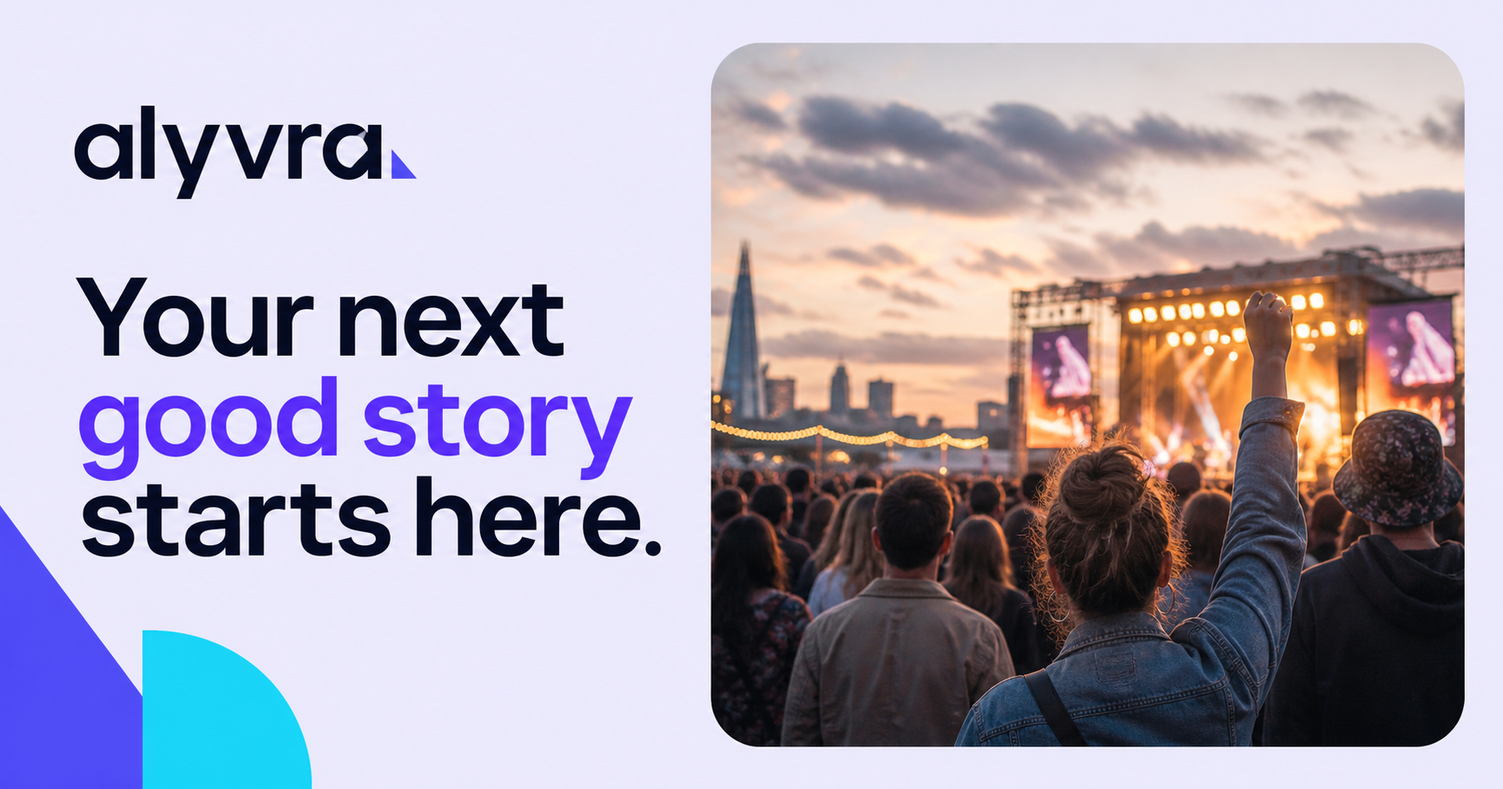
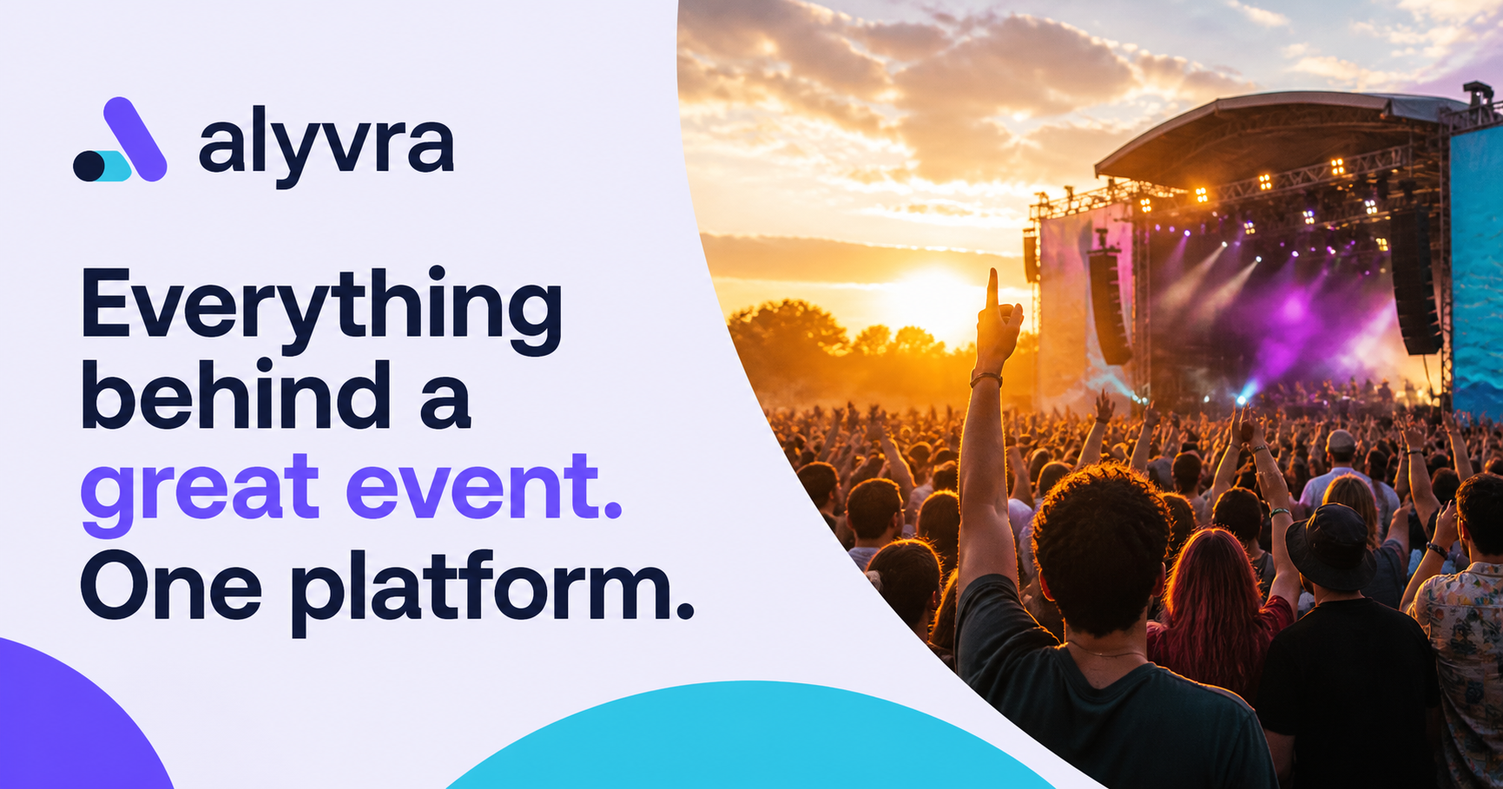
Expand Alyvra into complete multi-page platform

diff --git a/app/globals.css b/app/globals.css
@@ -282,3 +282,190 @@ footer { margin:0 2.2vw; padding-left:2.5vw; padding-right:2.5vw; border-bottom-
   .intro-marquee { justify-content:flex-start; gap:18px; min-height:100px; }
   .intro-marquee p { font-size:25px; }
 }
+
+/* Platform pages and full footer */
+.platform-footer { margin:0; padding:78px 5vw 28px; display:grid; grid-template-columns:minmax(260px,.8fr) 1.6fr; gap:8vw; color:white; background:#0b1220; border:0; }
+.footer-lead img { width:145px; filter:brightness(0) invert(1); }
+.footer-lead h2 { margin:42px 0 18px; font-size:48px; line-height:.92; letter-spacing:-.06em; }
+.footer-lead>p { max-width:350px; color:#98a2b3; line-height:1.65; font-family:inherit; font-style:normal; }
+.socials { display:flex; gap:8px; margin-top:28px; }
+.socials a { display:grid; place-items:center; width:38px; height:38px; border:1px solid #344054; border-radius:50%; font-size:11px; font-weight:800; }
+.footer-links { display:grid; grid-template-columns:repeat(4,1fr); gap:38px; }
+.footer-links>div { display:flex; flex-direction:column; align-items:flex-start; }
+.footer-links h3 { color:white; font-size:11px; text-transform:uppercase; letter-spacing:.14em; margin:8px 0 25px; }
+.footer-links a { color:#98a2b3; font-size:13px; margin:0 0 15px; }
+.footer-links a:hover { color:white; }
+.footer-bottom { grid-column:1/-1; border-top:1px solid #273244; padding-top:24px; margin-top:28px; display:flex; justify-content:space-between; color:#667085; font-size:11px; }
+.footer-bottom a { color:#98a2b3; }
+
+.inner-page { min-height:80vh; background:#fafafa; padding-top:104px; }
+.page-hero { margin:20px 2.2vw 0; min-height:570px; border-radius:28px; padding:90px 6vw; display:flex; flex-direction:column; justify-content:center; position:relative; overflow:hidden; }
+.page-hero h1 { margin:0; font-size:clamp(65px,9vw,132px); line-height:.82; letter-spacing:-.08em; max-width:1050px; }
+.page-hero>p:not(.eyebrow) { max-width:610px; color:#475467; font-size:18px; line-height:1.6; }
+.page-hero em { color:var(--violet); font-style:normal; }
+.events-hero { background:#eeecff; min-height:490px; }
+.events-hero:after { content:""; position:absolute; width:380px; height:380px; right:-100px; bottom:-180px; border:75px solid rgba(91,77,245,.15); border-radius:50%; }
+.directory-search { width:min(650px,100%); display:flex; background:white; padding:8px; border-radius:14px; box-shadow:0 16px 40px rgba(16,24,40,.1); margin-top:20px; position:relative; z-index:1; }
+.directory-search input { flex:1; min-width:0; border:0; outline:0; padding:13px 14px; }
+.directory-search button { border:0; border-radius:9px; color:white; background:var(--ink); padding:13px 24px; font-weight:800; }
+.directory { padding:80px 4.4vw 120px; }
+.filter-bar { display:flex; align-items:center; justify-content:space-between; margin-bottom:32px; }
+.filter-bar>div { display:flex; gap:8px; }
+.filter-bar button { border:1px solid var(--line); background:white; border-radius:10px; padding:10px 14px; }
+.directory-grid { display:grid; grid-template-columns:repeat(3,1fr); gap:18px; }
+.directory-grid article { background:white; border:1px solid var(--line); border-radius:20px; overflow:hidden; }
+.directory-grid img { width:100%; height:235px; object-fit:cover; }
+.directory-grid article>div { padding:20px; display:grid; grid-template-columns:1fr auto; align-items:end; gap:5px 14px; }
+.directory-grid p { grid-column:1/-1; margin:0; color:var(--violet); font-size:10px; font-weight:900; text-transform:uppercase; letter-spacing:.08em; }
+.directory-grid h2 { grid-column:1/-1; margin:3px 0 5px; font-size:22px; letter-spacing:-.04em; }
+.directory-grid span { color:var(--muted); font-size:12px; }
+.directory-grid strong { text-align:right; font-size:13px; }
+.directory-grid button { grid-column:1/-1; margin-top:14px; border:0; background:#f0efff; color:var(--violet); border-radius:9px; padding:11px; text-align:left; font-weight:850; }
+.directory-ticket { grid-column:1/-1; margin-top:14px; background:#f0efff; color:var(--violet); border-radius:9px; padding:11px; text-align:left; font-weight:850; font-size:13px; }
+.event-details { margin-left:auto; color:var(--muted); font-weight:750; }
+
+.organiser-hero { color:white; background:linear-gradient(120deg,#101828,#29235f); }
+.organiser-hero>p:not(.eyebrow) { color:#c7ceda; }
+.organiser-hero:after { content:""; position:absolute; width:470px; height:470px; border:90px solid rgba(34,211,238,.11); border-radius:50%; right:-80px; top:-180px; }
+.page-cta { align-self:flex-start; margin-top:20px; background:var(--violet); color:white; border-radius:11px; padding:15px 19px; font-weight:800; position:relative; z-index:1; }
+.feature-section { padding:110px 5vw; display:grid; grid-template-columns:.8fr 1.4fr; gap:8vw; }
+.section-intro h2 { font-size:62px; line-height:.94; letter-spacing:-.065em; margin:0; }
+.feature-list article { display:grid; grid-template-columns:48px 1fr 1fr; gap:20px; padding:28px 0; border-top:1px solid var(--line); }
+.feature-list span { color:var(--violet); font-size:11px; font-weight:900; }
+.feature-list h3,.feature-list p { margin:0; }
+.feature-list h3 { font-size:20px; letter-spacing:-.03em; }
+.feature-list p { color:var(--muted); line-height:1.55; }
+.price-banner { margin:0 2.2vw 26px; padding:80px 6vw; border-radius:28px; background:#22d3ee; color:#101828; }
+.price-banner>p:first-child { text-transform:uppercase; letter-spacing:.14em; font-size:11px; font-weight:900; }
+.price-banner h2 { font-size:72px; letter-spacing:-.065em; margin:15px 0; }
+.price-banner>p:not(:first-child) { max-width:560px; line-height:1.6; }
+.price-banner a { display:inline-block; margin-top:18px; border-bottom:1px solid; padding-bottom:6px; font-weight:850; }
+
+.about-hero { background:#f1f3f6; }
+.story-grid { padding:110px 6vw; display:grid; grid-template-columns:1fr 1fr; gap:10vw; }
+.story-grid h2 { font-size:60px; line-height:.95; letter-spacing:-.06em; margin:0; }
+.story-grid>div:last-child { color:#475467; font-size:19px; line-height:1.75; }
+.values { display:grid; grid-template-columns:repeat(3,1fr); gap:1px; background:var(--line); border-block:1px solid var(--line); }
+.values article { padding:65px 5vw; background:white; }
+.values span { color:var(--violet); font-size:11px; font-weight:900; }
+.values h3 { font-size:25px; letter-spacing:-.04em; margin:48px 0 12px; }
+.values p { color:var(--muted); line-height:1.6; }
+.careers { margin:80px 2.2vw 26px; border-radius:28px; background:#eeecff; padding:80px 6vw; }
+.careers h2 { font-size:64px; letter-spacing:-.06em; margin:0 0 18px; }
+.careers p { color:var(--muted); }
+.careers a { display:inline-block; margin-top:20px; color:var(--violet); font-weight:900; }
+
+.help-hero { min-height:420px; background:#101828; color:white; align-items:center; text-align:center; }
+.help-hero h1 { font-size:clamp(60px,8vw,110px); }
+.help-hero .directory-search { margin-top:35px; text-align:left; }
+.help-grid { padding:85px 5vw; display:grid; grid-template-columns:repeat(3,1fr); gap:16px; }
+.help-grid a { border:1px solid var(--line); background:white; border-radius:18px; padding:30px; min-height:260px; }
+.help-grid span { color:var(--violet); font-size:10px; font-weight:900; }
+.help-grid h2 { margin:45px 0 10px; font-size:23px; }
+.help-grid p { color:var(--muted); line-height:1.55; }
+.help-grid b { display:block; color:var(--violet); margin-top:25px; font-size:12px; }
+.faq { max-width:900px; margin:0 auto; padding:20px 24px 120px; }
+.faq>h2 { font-size:60px; margin:0 0 35px; letter-spacing:-.06em; }
+.faq details { border-top:1px solid var(--line); padding:22px 0; }
+.faq summary { cursor:pointer; list-style:none; display:flex; justify-content:space-between; font-weight:800; }
+.faq details p { color:var(--muted); line-height:1.6; max-width:700px; }
+
+.contact-layout { padding:80px 6vw 120px; display:grid; grid-template-columns:1fr 1fr; gap:10vw; }
+.contact-layout h1 { font-size:clamp(65px,8vw,112px); line-height:.85; letter-spacing:-.075em; margin:20px 0 32px; }
+.contact-layout>div>p:not(.eyebrow) { max-width:560px; color:var(--muted); line-height:1.65; }
+.contact-details { margin-top:60px; display:grid; gap:20px; }
+.contact-details p { margin:0; font-weight:750; }
+.contact-details small { display:block; color:var(--muted); font-weight:500; margin-bottom:6px; }
+.contact-layout form { background:white; border:1px solid var(--line); border-radius:22px; padding:34px; box-shadow:0 18px 45px rgba(16,24,40,.06); }
+.contact-layout label { display:block; font-size:12px; font-weight:800; margin-bottom:22px; }
+.contact-layout input,.contact-layout select,.contact-layout textarea { display:block; width:100%; margin-top:8px; border:1px solid var(--line); border-radius:10px; padding:13px; outline:0; resize:vertical; }
+.contact-layout input:focus,.contact-layout select:focus,.contact-layout textarea:focus { border-color:var(--violet); box-shadow:0 0 0 3px rgba(91,77,245,.1); }
+.contact-layout form button { width:100%; border:0; border-radius:10px; background:var(--violet); color:white; padding:15px; font-weight:900; }
+
+.legal-page { padding:180px 6vw 120px; display:grid; grid-template-columns:.8fr 1.2fr; gap:10vw; }
+.legal-page>section { position:sticky; top:130px; align-self:start; }
+.legal-page h1 { font-size:72px; line-height:.9; letter-spacing:-.065em; margin:20px 0 25px; }
+.legal-page>section>p:not(.eyebrow) { color:var(--muted); line-height:1.6; }
+.legal-page>section small { color:#98a2b3; }
+.legal-page article { background:white; border-radius:20px; border:1px solid var(--line); padding:45px; }
+.legal-page article h2 { font-size:25px; margin:40px 0 10px; }
+.legal-page article h2:first-child { margin-top:0; }
+.legal-page article p { color:#475467; line-height:1.8; }
+
+.event-detail { background:#fafafa; }
+.event-detail-hero { height:min(820px,88vh); min-height:660px; position:relative; overflow:hidden; }
+.event-detail-hero>img { width:100%; height:100%; object-fit:cover; }
+.event-detail-shade { position:absolute; inset:0; background:linear-gradient(0deg,rgba(7,12,27,.88) 0%,rgba(7,12,27,.15) 68%); }
+.event-detail-heading { position:absolute; z-index:2; left:6vw; right:6vw; bottom:68px; color:white; }
+.event-detail-heading>p { margin:0 0 18px; color:var(--cyan); text-transform:uppercase; letter-spacing:.16em; font-size:11px; font-weight:900; }
+.event-detail-heading h1 { max-width:1100px; margin:0 0 30px; font-size:clamp(65px,9.5vw,145px); line-height:.81; letter-spacing:-.078em; }
+.event-detail-heading>div { display:flex; gap:40px; font-size:13px; font-weight:750; }
+.event-body { padding:100px 6vw 130px; display:grid; grid-template-columns:minmax(0,1fr) 390px; gap:9vw; align-items:start; }
+.event-main h2 { margin:0 0 25px; font-size:70px; line-height:.9; letter-spacing:-.065em; }
+.event-lead { max-width:820px; color:#475467; font-size:22px; line-height:1.65; }
+.event-facts { display:grid; grid-template-columns:repeat(3,1fr); gap:1px; margin:65px 0; border-block:1px solid var(--line); background:var(--line); }
+.event-facts article { background:#fafafa; padding:28px 22px; display:flex; flex-direction:column; }
+.event-facts small,.ticket-tier small,.organiser-mini small { color:var(--muted); font-size:10px; text-transform:uppercase; letter-spacing:.1em; }
+.event-facts strong { margin:16px 0 7px; }
+.event-facts span { color:var(--muted); font-size:12px; }
+.event-schedule { margin:70px 0; }
+.event-schedule>div { display:grid; grid-template-columns:110px 1fr; border-top:1px solid var(--line); padding:20px 0; }
+.event-schedule time { color:var(--violet); font-weight:900; }
+.event-info-block { border-radius:20px; background:#eeecff; padding:42px; }
+.event-info-block h3 { margin:32px 0 8px; font-size:20px; }
+.event-info-block h3:first-child { margin-top:0; }
+.event-info-block p { color:#475467; line-height:1.65; }
+.buy-card { position:sticky; top:110px; background:white; border:1px solid var(--line); border-radius:22px; padding:30px; box-shadow:0 24px 60px rgba(16,24,40,.1); }
+.buy-card>h2 { font-size:36px; letter-spacing:-.05em; margin:0 0 25px; }
+.ticket-tier { border-top:1px solid var(--line); padding:19px 0; display:flex; justify-content:space-between; align-items:center; }
+.ticket-tier>span { display:flex; flex-direction:column; gap:6px; }
+.ticket-tier b { font-size:18px; }
+.buy-card>label { display:flex; justify-content:space-between; align-items:center; border-top:1px solid var(--line); padding-top:18px; font-size:12px; font-weight:850; }
+.buy-card select { border:1px solid var(--line); border-radius:8px; padding:8px 30px 8px 10px; }
+.buy-card>button { width:100%; margin:24px 0 12px; border:0; border-radius:11px; background:var(--violet); color:white; padding:16px; font-weight:900; }
+.buy-card>small { display:block; color:var(--muted); text-align:center; }
+.organiser-mini { display:flex; align-items:center; gap:12px; border-top:1px solid var(--line); margin-top:25px; padding-top:22px; }
+.organiser-mini>span { width:38px; height:38px; border-radius:10px; background:var(--ink); color:white; display:grid; place-items:center; font-weight:900; }
+.organiser-mini p { margin:0; display:flex; flex-direction:column; gap:4px; }
+
+@media (max-width:900px) {
+  .platform-footer { grid-template-columns:1fr; }
+  .footer-links { grid-template-columns:repeat(2,1fr); }
+  .inner-page { padding-top:88px; }
+  .page-hero { padding:70px 34px; min-height:500px; }
+  .directory-grid,.help-grid { grid-template-columns:repeat(2,1fr); }
+  .feature-section,.story-grid,.contact-layout,.legal-page { grid-template-columns:1fr; }
+  .legal-page>section { position:static; }
+  .values { grid-template-columns:1fr; }
+  .event-body { grid-template-columns:1fr; }
+  .buy-card { position:static; }
+}
+@media (max-width:600px) {
+  .platform-footer { padding:62px 24px 26px; gap:55px; }
+  .footer-links { grid-template-columns:1fr 1fr; gap:36px 20px; }
+  .footer-bottom { flex-direction:column; gap:12px; }
+  .page-hero { margin:10px 12px 0; padding:54px 24px; min-height:440px; border-radius:22px; }
+  .page-hero h1 { font-size:57px; }
+  .directory { padding:60px 16px 80px; }
+  .filter-bar { align-items:flex-start; gap:15px; flex-direction:column; }
+  .directory-grid,.help-grid { grid-template-columns:1fr; }
+  .feature-section,.story-grid { padding:75px 24px; }
+  .section-intro h2,.story-grid h2,.careers h2,.price-banner h2 { font-size:47px; }
+  .feature-list article { grid-template-columns:35px 1fr; }
+  .feature-list article p { grid-column:2; }
+  .price-banner,.careers { margin:0 12px 12px; padding:55px 24px; border-radius:22px; }
+  .values article { padding:50px 24px; }
+  .help-grid { padding:60px 16px; }
+  .contact-layout,.legal-page { padding:65px 20px 85px; }
+  .contact-layout h1,.legal-page h1 { font-size:56px; }
+  .contact-layout form,.legal-page article { padding:24px; }
+  .event-detail-hero { min-height:690px; }
+  .event-detail-heading { left:22px; right:22px; bottom:45px; }
+  .event-detail-heading h1 { font-size:58px; }
+  .event-detail-heading>div { flex-direction:column; gap:8px; }
+  .event-body { padding:70px 20px 90px; }
+  .event-main h2 { font-size:50px; }
+  .event-lead { font-size:18px; }
+  .event-facts { grid-template-columns:1fr; }
+  .event-info-block { padding:26px; }
+}

diff --git a/app/events/[slug]/page.tsx b/app/events/[slug]/page.tsx
@@ -1,0 +1,23 @@
+import { notFound } from "next/navigation";
+
+const eventData = {
+  "north-coast-sessions": { title:"North Coast Sessions", category:"Music festival", date:"Saturday 12 September 2026", time:"12:00–23:00", venue:"The Harbour Grounds", city:"Ayr, Scotland", price:32, image:"https://images.unsplash.com/photo-1506157786151-b8491531f063?auto=format&fit=crop&w=1800&q=90", intro:"A full day of exceptional live music beside the coast, bringing breakthrough artists and established favourites together across three stages.", schedule:[["12:00","Gates open"],["14:15","Harbour Stage begins"],["18:30","Evening programme"],["22:45","Last performance"]]},
+  "field-and-flame-festival": { title:"Field & Flame Festival", category:"Food & drink", date:"Sunday 20 September 2026", time:"11:00–20:00", venue:"Kelvingrove Park", city:"Glasgow, Scotland", price:18, image:"https://images.unsplash.com/photo-1504674900247-0877df9cc836?auto=format&fit=crop&w=1800&q=90", intro:"A generous celebration of Scotland’s independent kitchens, growers and makers—with open-fire cooking, tastings and live demonstrations.", schedule:[["11:00","Festival opens"],["12:30","Chef’s table"],["15:00","Field kitchen demo"],["19:30","Last service"]]},
+  "a-midsummer-nights-dream": { title:"A Midsummer Night’s Dream", category:"Theatre", date:"24–27 September 2026", time:"19:30", venue:"Civic Theatre", city:"Edinburgh, Scotland", price:24, image:"https://images.unsplash.com/photo-1503095396549-807759245b35?auto=format&fit=crop&w=1800&q=90", intro:"A vivid, contemporary staging of Shakespeare’s most playful comedy—full of live music, restless magic and glorious confusion.", schedule:[["18:45","Doors open"],["19:30","Act one"],["20:35","Interval"],["22:05","Performance ends"]]},
+  "little-explorers-live": { title:"Little Explorers Live", category:"Family", date:"Saturday 3 October 2026", time:"10:30–16:00", venue:"Discovery Centre", city:"Dundee, Scotland", price:12, image:"https://images.unsplash.com/photo-1472653431158-6364773b2a56?auto=format&fit=crop&w=1800&q=90", intro:"A hands-on day of science, creativity and discovery for curious young minds and their grown-ups.", schedule:[["10:30","Doors open"],["11:15","Big science show"],["13:30","Maker workshop"],["16:00","Event closes"]]},
+  "city-10k-and-festival": { title:"City 10K & Festival", category:"Sport", date:"Sunday 11 October 2026", time:"08:30", venue:"Riverside Park", city:"Stirling, Scotland", price:20, image:"https://images.unsplash.com/photo-1552674605-db6ffd4facb5?auto=format&fit=crop&w=1800&q=90", intro:"A fast, friendly city run followed by food, music and family activity beside the river. All abilities are welcome.", schedule:[["07:15","Event village opens"],["08:30","10K start"],["10:15","Awards"],["14:00","Festival closes"]]},
+  "afterlight-orchestra": { title:"Afterlight Orchestra", category:"Live music", date:"Friday 23 October 2026", time:"19:00", venue:"The Assembly Rooms", city:"Aberdeen, Scotland", price:28, image:"https://images.unsplash.com/photo-1465847899084-d164df4dedc6?auto=format&fit=crop&w=1800&q=90", intro:"An immersive evening where a twelve-piece orchestra reshapes familiar music through strings, brass and cinematic light.", schedule:[["19:00","Doors open"],["20:00","Performance begins"],["21:00","Interval"],["22:30","Performance ends"]]},
+} as const;
+
+type EventSlug = keyof typeof eventData;
+export function generateStaticParams(){ return Object.keys(eventData).map(slug=>({slug})); }
+
+export default async function EventDetailPage({params}:{params:Promise<{slug:string}>}){
+  const {slug}=await params;
+  const event=eventData[slug as EventSlug];
+  if(!event) notFound();
+  return <main className="event-detail" id="top">
+    <section className="event-detail-hero"><img src={event.image} alt=""/><div className="event-detail-shade"/><div className="event-detail-heading"><p>{event.category}</p><h1>{event.title}</h1><div><span>{event.date}</span><span>{event.venue} · {event.city}</span></div></div></section>
+    <section className="event-body"><div className="event-main"><p className="eyebrow">The experience</p><h2>One for the calendar.</h2><p className="event-lead">{event.intro}</p><div className="event-facts"><article><small>Date & time</small><strong>{event.date}</strong><span>{event.time}</span></article><article><small>Location</small><strong>{event.venue}</strong><span>{event.city}</span></article><article><small>Age guidance</small><strong>All ages welcome</strong><span>Under 16s with an adult</span></article></div><div className="event-schedule"><p className="eyebrow">Event schedule</p>{event.schedule.map(([time,item])=><div key={time}><time>{time}</time><strong>{item}</strong></div>)}</div><section className="event-info-block"><h3>Before you arrive</h3><p>Your mobile ticket will be available immediately after checkout. Please have it ready when you reach the entrance. Small bags are permitted and may be searched.</p><h3>Accessibility</h3><p>Step-free entry, accessible toilets and companion tickets are available. Contact the organiser through your order if you need specific arrangements.</p><h3>Getting there</h3><p>Public transport is recommended. Full travel guidance and any final event updates will be emailed to ticket holders before the event.</p></section></div><aside className="buy-card"><p className="eyebrow">Tickets on sale</p><h2>Choose tickets</h2><div className="ticket-tier"><span><strong>General admission</strong><small>Mobile ticket</small></span><b>£{event.price}</b></div><div className="ticket-tier"><span><strong>Priority entry</strong><small>Early entrance lane</small></span><b>£{event.price+14}</b></div><label>Quantity<select defaultValue="1"><option>1</option><option>2</option><option>3</option><option>4</option></select></label><button>Continue to checkout ↗</button><small>Secure checkout · No hidden fees</small><div className="organiser-mini"><span>A</span><p><small>Organised by</small><strong>Alyvra Presents</strong></p></div></aside></section>
+  </main>
+}

diff --git a/app/page.tsx b/app/page.tsx
@@ -3,6 +3,7 @@
 import { useEffect, useMemo, useState } from "react";
 
 const categories = ["All events", "Music", "Food & drink", "Theatre", "Family", "Sport"];
+const eventSlug = (title: string) => title.toLowerCase().replace(/[’']/g, "").replace(/&/g, "and").replace(/[^a-z0-9]+/g, "-").replace(/^-|-$/g, "");
 
 const events = [
   {
@@ -81,7 +82,6 @@ export default function Home() {
   const [category, setCategory] = useState("All events");
   const [query, setQuery] = useState("");
   const [selected, setSelected] = useState<(typeof events)[number] | null>(null);
-  const [menuOpen, setMenuOpen] = useState(false);
   const [activeSlide, setActiveSlide] = useState(0);
 
   const featured = events.slice(0, 3);
@@ -102,24 +102,6 @@ export default function Home() {
 
   return (
     <main>
-      <header className="site-header">
-        <a className="brand" href="#top" aria-label="Alyvra home">
-          <img src="/alyvra-logo.png" alt="Alyvra" />
-        </a>
-        <nav className={menuOpen ? "nav open" : "nav"} aria-label="Primary navigation">
-          <a href="#events" onClick={() => setMenuOpen(false)}>Find events</a>
-          <a href="#organisers" onClick={() => setMenuOpen(false)}>For organisers</a>
-          <a href="#help" onClick={() => setMenuOpen(false)}>Help</a>
-        </nav>
-        <div className="header-actions">
-          <button className="text-button">Sign in</button>
-          <button className="primary-button">List your event</button>
-        </div>
-        <button className="menu-button" aria-label="Toggle menu" aria-expanded={menuOpen} onClick={() => setMenuOpen(!menuOpen)}>
-          <span /><span />
-        </button>
-      </header>
-
       <section className="slider-hero" id="top" aria-roledescription="carousel" aria-label="Featured events">
         {featured.map((event, index) => (
           <article className={activeSlide === index ? "hero-slide active" : "hero-slide"} key={event.id} aria-hidden={activeSlide !== index}>
@@ -135,7 +117,7 @@ export default function Home() {
               </div>
               <div className="slide-actions">
                 <button className="hero-ticket-button" onClick={() => setSelected(event)}>Get tickets <span>↗</span></button>
-                <button className="details-button" onClick={() => document.getElementById("events")?.scrollIntoView({ behavior: "smooth" })}>Explore event</button>
+                <a className="details-button" href={`/events/${eventSlug(event.title)}`}>Explore event</a>
               </div>
             </div>
           </article>
@@ -183,7 +165,7 @@ export default function Home() {
                   <p className="event-date">{event.date} · {event.time}</p>
                   <h3>{event.title}</h3>
                   <p className="location">{event.place}</p>
-                  <div><strong>{event.price}</strong><button onClick={() => setSelected(event)}>Get tickets</button></div>
+                  <div><strong>{event.price}</strong><a className="event-details" href={`/events/${eventSlug(event.title)}`}>Details</a><button onClick={() => setSelected(event)}>Get tickets</button></div>
                 </div>
               </article>
             ))}
@@ -196,13 +178,6 @@ export default function Home() {
         <div className="organiser-copy"><p>Sell tickets, know your audience and run your event with confidence—all from one thoughtful platform.</p><button className="light-button">Explore Alyvra for organisers <span>→</span></button></div>
         <div className="metric"><strong>2.4m</strong><span>tickets delivered</span></div>
       </section>
-
-      <footer id="help">
-        <img src="/alyvra-logo.png" alt="Alyvra" />
-        <p>Good events start here.</p>
-        <div><a href="#events">Discover</a><a href="#organisers">Organisers</a><a href="#help">Support</a><a href="#help">Privacy</a></div>
-        <small>© 2026 Alyvra Technologies Ltd</small>
-      </footer>
 
       {selected && (
         <div className="modal-backdrop" role="presentation" onMouseDown={() => setSelected(null)}>

diff --git a/app/site-chrome.tsx b/app/site-chrome.tsx
@@ -1,0 +1,37 @@
+"use client";
+
+import { useState } from "react";
+
+export function SiteHeader() {
+  const [open, setOpen] = useState(false);
+  return (
+    <header className="site-header">
+      <a className="brand" href="/" aria-label="Alyvra home"><img src="/alyvra-logo.png" alt="Alyvra" /></a>
+      <nav className={open ? "nav open" : "nav"} aria-label="Primary navigation">
+        <a href="/events" onClick={() => setOpen(false)}>Find events</a>
+        <a href="/organisers" onClick={() => setOpen(false)}>For organisers</a>
+        <a href="/about" onClick={() => setOpen(false)}>About</a>
+        <a href="/help" onClick={() => setOpen(false)}>Help</a>
+      </nav>
+      <div className="header-actions"><a className="text-button" href="/help">Sign in</a><a className="primary-button" href="/organisers">List your event</a></div>
+      <button className="menu-button" aria-label="Toggle menu" aria-expanded={open} onClick={() => setOpen(!open)}><span /><span /></button>
+    </header>
+  );
+}
+
+const footerGroups = [
+  { title: "Discover", links: [["All events", "/events"], ["Music", "/events?category=music"], ["Food & drink", "/events?category=food"], ["Theatre", "/events?category=theatre"], ["Family", "/events?category=family"]] },
+  { title: "Organisers", links: [["Sell tickets", "/organisers"], ["Platform features", "/organisers#features"], ["Pricing", "/organisers#pricing"], ["Event operations", "/organisers#operations"], ["Get started", "/contact"]] },
+  { title: "Alyvra", links: [["About us", "/about"], ["Our values", "/about#values"], ["Careers", "/about#careers"], ["Contact", "/contact"], ["Help centre", "/help"]] },
+  { title: "Legal & trust", links: [["Terms", "/terms"], ["Privacy", "/privacy"], ["Refund policy", "/refunds"], ["Accessibility", "/accessibility"], ["Cookie settings", "/privacy#cookies"]] },
+];
+
+export function SiteFooter() {
+  return (
+    <footer className="platform-footer">
+      <div className="footer-lead"><img src="/alyvra-logo.png" alt="Alyvra" /><h2>Good events<br />start here.</h2><p>One thoughtful platform for finding, selling and running unforgettable events.</p><div className="socials"><a href="/contact" aria-label="Instagram">ig</a><a href="/contact" aria-label="LinkedIn">in</a><a href="/contact" aria-label="TikTok">tk</a></div></div>
+      <div className="footer-links">{footerGroups.map((group) => <div key={group.title}><h3>{group.title}</h3>{group.links.map(([label, href]) => <a href={href} key={label}>{label}</a>)}</div>)}</div>
+      <div className="footer-bottom"><span>© 2026 Alyvra Technologies Ltd</span><span>Designed for better events.</span><a href="#top">Back to top ↑</a></div>
+    </footer>
+  );
+}

diff --git a/app/events/page.tsx b/app/events/page.tsx
@@ -1,0 +1,11 @@
+const events = [
+  ["North Coast Sessions", "Music", "12 Sep", "Ayr", "32", "https://images.unsplash.com/photo-1506157786151-b8491531f063?auto=format&fit=crop&w=1000&q=85"],
+  ["Field & Flame Festival", "Food & drink", "20 Sep", "Glasgow", "18", "https://images.unsplash.com/photo-1504674900247-0877df9cc836?auto=format&fit=crop&w=1000&q=85"],
+  ["A Midsummer Night’s Dream", "Theatre", "24 Sep", "Edinburgh", "24", "https://images.unsplash.com/photo-1503095396549-807759245b35?auto=format&fit=crop&w=1000&q=85"],
+  ["Little Explorers Live", "Family", "3 Oct", "Dundee", "12", "https://images.unsplash.com/photo-1472653431158-6364773b2a56?auto=format&fit=crop&w=1000&q=85"],
+  ["City 10K & Festival", "Sport", "11 Oct", "Stirling", "20", "https://images.unsplash.com/photo-1552674605-db6ffd4facb5?auto=format&fit=crop&w=1000&q=85"],
+  ["Afterlight Orchestra", "Music", "23 Oct", "Aberdeen", "28", "https://images.unsplash.com/photo-1465847899084-d164df4dedc6?auto=format&fit=crop&w=1000&q=85"],
+];
+const slug = (title:string) => title.toLowerCase().replace(/[’']/g, "").replace(/&/g,"and").replace(/[^a-z0-9]+/g,"-").replace(/^-|-$/g,"");
+
+export default function EventsPage() { return <main className="inner-page" id="top"><section className="page-hero events-hero"><p className="eyebrow">Make plans worth keeping</p><h1>Find your<br />next event.</h1><p>From one-night-only performances to weekends you’ll never forget.</p><label className="directory-search"><input placeholder="Search by event, artist or city" aria-label="Search events" /><button>Search</button></label></section><section className="directory"><div className="filter-bar"><strong>Explore 148 events</strong><div><button>Dates</button><button>Categories</button><button>Location</button></div></div><div className="directory-grid">{events.map(([title,category,date,city,price,image]) => <article key={title}><a href={`/events/${slug(title)}`}><img src={image} alt="" /></a><div><p>{category} · {date}</p><h2><a href={`/events/${slug(title)}`}>{title}</a></h2><span>{city}</span><strong>From £{price}</strong><a className="directory-ticket" href={`/events/${slug(title)}`}>View event & tickets ↗</a></div></article>)}</div></section></main> }

diff --git a/app/help/page.tsx b/app/help/page.tsx
@@ -1,0 +1,2 @@
+const topics=[["Tickets & orders","Find tickets, update details and get help with an order."],["Event information","Questions about timings, entry, accessibility or venues."],["Refunds & transfers","Understand refund rules and how ticket transfers work."],["Organiser support","Guides for building, selling and operating your event."],["Account & security","Manage sign-in details and keep your account secure."],["Contact support","Can’t find the answer? Speak to the Alyvra team."]];
+export default function HelpPage(){return <main className="inner-page" id="top"><section className="page-hero help-hero"><p className="eyebrow">Alyvra help centre</p><h1>How can we help?</h1><label className="directory-search"><input placeholder="Search help articles" aria-label="Search help"/><button>Search</button></label></section><section className="help-grid">{topics.map(([title,copy],i)=><a href={title==="Contact support"?"/contact":"#answers"} key={title}><span>0{i+1}</span><h2>{title}</h2><p>{copy}</p><b>View help →</b></a>)}</section><section className="faq" id="answers"><p className="eyebrow">Popular questions</p><h2>Quick answers</h2>{["Where can I find my tickets?","Can I transfer a ticket to someone else?","What happens if an event is cancelled?","How do I contact an event organiser?"].map(q=><details key={q}><summary>{q}<span>+</span></summary><p>Sign in using the email address used at checkout. Your order, tickets and event-specific support options will appear in your account.</p></details>)}</section></main>}

diff --git a/app/organisers/page.tsx b/app/organisers/page.tsx
@@ -1,0 +1,2 @@
+const features = [["01","Tickets that feel like your event","Flexible ticket types, add-ons, promo codes, reserved allocations and mobile delivery."],["02","Know what’s happening","Live sales, attendance and revenue reporting without spreadsheet archaeology."],["03","Run the whole operation","Planning, staffing, suppliers, accreditation and event control in one workspace."],["04","Support when it matters","Practical help before doors open and throughout your live event."]];
+export default function OrganisersPage(){ return <main className="inner-page" id="top"><section className="page-hero organiser-hero"><p className="eyebrow">A better way to run events</p><h1>Sell it.<br />Plan it.<br /><em>Run it.</em></h1><p>Alyvra brings ticketing and event operations together, so your team can focus on the experience—not the admin.</p><a className="page-cta" href="/contact">Talk to our team ↗</a></section><section className="feature-section" id="features"><div className="section-intro"><p className="eyebrow">One connected platform</p><h2>Everything behind a great event.</h2></div><div className="feature-list">{features.map(([n,title,copy])=><article key={n}><span>{n}</span><h3>{title}</h3><p>{copy}</p></article>)}</div></section><section className="price-banner" id="pricing"><p>Simple, transparent pricing</p><h2>Grow at your own pace.</h2><p>Start selling with no setup fee. Add operational tools when your event needs them.</p><a href="/contact">Get a tailored quote →</a></section></main> }

diff --git a/app/about/page.tsx b/app/about/page.tsx
@@ -1,0 +1,1 @@
+export default function AboutPage(){ return <main className="inner-page" id="top"><section className="page-hero about-hero"><p className="eyebrow">About Alyvra</p><h1>Technology should<br />never get in the way<br />of a <em>great event.</em></h1><p>We’re building the event operating platform we always wished existed: clear, capable and genuinely pleasant to use.</p></section><section className="story-grid"><div><p className="eyebrow">Our story</p><h2>Made around the realities of live events.</h2></div><div><p>Events are complicated. The tools behind them shouldn’t make them harder. Alyvra connects the customer journey with the operational work that makes every event possible.</p><p>That means fewer disconnected systems, clearer decisions and teams that know exactly what needs to happen next.</p></div></section><section className="values" id="values"><article><span>01</span><h3>Clarity over clutter</h3><p>Every screen should answer a useful question.</p></article><article><span>02</span><h3>Trust by design</h3><p>Clear pricing, secure tickets and honest communication.</p></article><article><span>03</span><h3>Built for show day</h3><p>Reliable when the gates open and the pressure rises.</p></article></section><section className="careers" id="careers"><h2>Help us make events work better.</h2><p>We’re building a thoughtful team across product, engineering, design and event operations.</p><a href="/contact">Say hello →</a></section></main> }

diff --git a/app/contact/page.tsx b/app/contact/page.tsx
@@ -1,0 +1,1 @@
+export default function ContactPage(){return <main className="inner-page" id="top"><section className="contact-layout"><div><p className="eyebrow">Contact Alyvra</p><h1>Let’s make something happen.</h1><p>Buying tickets, planning an event, or exploring the platform? Tell us what you need and we’ll point you in the right direction.</p><div className="contact-details"><p><small>Ticket support</small>support@alyvra.example</p><p><small>Organiser enquiries</small>hello@alyvra.example</p><p><small>Hours</small>Monday–Friday, 09:00–17:30</p></div></div><form><label>Name<input required placeholder="Your name"/></label><label>Email<input required type="email" placeholder="you@example.com"/></label><label>What can we help with?<select><option>Ticket or order</option><option>Organising an event</option><option>Partnership</option><option>Something else</option></select></label><label>Message<textarea rows={6} placeholder="Tell us a little more"/></label><button type="submit">Send message ↗</button></form></section></main>}

diff --git a/app/privacy/page.tsx b/app/privacy/page.tsx
@@ -1,0 +1,2 @@
+import {LegalPage} from "../legal-page";
+export default function Privacy(){return <LegalPage title="Privacy policy" intro="How Alyvra collects, uses and protects personal information."><h2>Information we collect</h2><p>We collect the information needed to provide tickets, operate accounts, process payments and support customers. This may include identity, contact, order and device information.</p><h2>How information is used</h2><p>We use personal information to deliver services, prevent fraud, communicate important event information and improve Alyvra. Marketing is sent only where permitted.</p><h2 id="cookies">Cookies</h2><p>Essential cookies keep the platform secure and functional. Optional analytics and preference cookies are used only in line with your choices.</p><h2>Your rights</h2><p>You may request access, correction or deletion of eligible personal information. Contact our privacy team to exercise these rights.</p></LegalPage>}

diff --git a/app/terms/page.tsx b/app/terms/page.tsx
@@ -1,0 +1,2 @@
+import {LegalPage} from "../legal-page";
+export default function Terms(){return <LegalPage title="Terms of service" intro="The terms that apply when you use Alyvra or buy a ticket through the platform."><h2>Using Alyvra</h2><p>You must provide accurate information, keep account access secure and use the platform lawfully. Tickets remain subject to the specific organiser’s event terms.</p><h2>Orders and payment</h2><p>Order details and the total payable are shown before purchase. An order is confirmed when payment succeeds and a confirmation is issued.</p><h2>Event organisers</h2><p>Organisers are responsible for delivering their events and providing accurate event information. Alyvra provides the technology used to list and operate them.</p><h2>Liability</h2><p>Nothing in these terms limits rights that cannot legally be excluded. Other limitations apply only to the extent permitted by law.</p></LegalPage>}

diff --git a/app/refunds/page.tsx b/app/refunds/page.tsx
@@ -1,0 +1,2 @@
+import {LegalPage} from "../legal-page";
+export default function Refunds(){return <LegalPage title="Refund policy" intro="What to expect when plans change, an event is cancelled or you can no longer attend."><h2>Cancelled events</h2><p>If an event is cancelled, the organiser will explain the refund process. Eligible refunds normally return to the original payment method.</p><h2>Rescheduled events</h2><p>Your ticket will usually remain valid for the new date. Where the organiser offers a refund window, the deadline will be shown in your order.</p><h2>Changing your mind</h2><p>Event tickets are generally not subject to a cooling-off period. Voluntary refunds depend on the organiser’s stated policy.</p><h2>Requesting help</h2><p>Open your order from your Alyvra account or contact support with your order reference.</p></LegalPage>}
